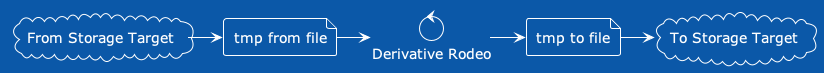
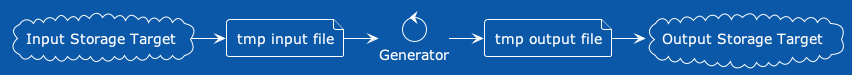
Updating readme

Changed region(s): [[0.0, 0.1644, 1.0, 0.9315], [0.4551, 0.1644, 1.0, 0.4658], [0.0, 0.3288, 0.0303, 0.3836]]

diff --git a/README.md b/README.md
@@ -25,22 +25,26 @@
 
 “This ain’t my first rodeo.” (an idiomatic American slang for “I’m prepared for what comes next.”)
 
-The `DerivativeRodeo` "moves" files *input* one storage target *output* another storage target via a generator.
+The `DerivativeRodeo` "moves" files from one storage target (e.g. *input*) to another storage target (e.g. *output*) via a generator.
 
 - [Storage Target](./lib/derivative_rodeo/storage_targets/base_target.rb) :: where we can expect to find a file.
 - [Generator](./lib/derivative_rodeo/generators/base_generator.rb) :: a process to transform a file into another file.
 
+## Process Life Cycle
+
 In the case of a *input* storage target, we expect that the underlying file pointed at by the *input* storage target exists.  After all we can't move what we don't have.
 
-In the case of a *output* storage target, we expect that the underlying file will exist after the generator has completed.  The *output* storage target could already exist or we might need to generate the file for the *output* target.
+In the case of a *output* storage target, we expect that the underlying file will exist after the generator has completed.  The *output* storage target *could* already exist or we might need to generate the file for the *output* target.
 
-During the generator's process, we need to have a working copy of both the *input* and *output* file.  This is done by creating a temporary file.  
+During the generator's process, we need to have a working copy of both the *input* and *output* file.  This is done by creating a temporary file.
 
 In the case of the *input*, the creation of that temporary file involves getting the file from the *input* storage target.  In the case of the *output*, we create a temporary file that the *output* storage target then knows how to move to the resulting place.
 
 ![Storage Lifecycle](./artifacts/derivative_rodeo-generator_storage_lifecycle.png)
 
-The process is designed an implemented to automatically clean-up the temporary files as the generator completes.
+The above Storage Lifecycle diagram is as follows: `input target` to `input tmp file` to `generator` to `output tmp file` to `output target`.
+
+*Note:* We've designed and implemented the data life cycle to automatically clean-up the temporary files as the generator completes.  In this way we can use the smallest working space possible.  A design decision that helps run `DerivativeRodeo` within distributed clusters (e.g. AWS Serverless).
 
 ## Concepts
 
@@ -176,7 +180,7 @@ Generators are responsible for ensuring that we have the file associated with th
 
 Generators must have an initializer and build command:
 
-- `.new(array_of_file_urls, output_url_type, preprocessor_url_type)`
+- `.new(array_of_file_urls, output_target_template, preprocessed_target_template)`
 - `#generated_files` (executes the generators actions) and returns array of files
 - `#generated_uris` (executes the generators actions) and returns array of output uris
 
@@ -186,7 +190,9 @@ Below is the current list of generators.
 
 - [HocrGenerator](./lib/derivative_rodeo/generators/hocr_generator.rb) :: generated tesseract files from images, also creates monocrhome files as a prestep
 - [MonochromeGenerator](./lib/derivative_rodeo/generators/monochrome_generator.rb) :: converts images to monochrome
-- [MoveGenerator](./lib/derivative_rodeo/generators/move_generator.rb) :: sends a set of uris to another location. For example from <abbr title="Simple Storage Service">S3</abbr> to <abbr title="Simple Queue Service">SQS</abbr> or from filesystem to S3.
+- [CopyGenerator](./lib/derivative_rodeo/generators/copy_generator.rb) :: sends a set of uris to another location. For example from <abbr title="Simple Storage Service">S3</abbr> to <abbr title="Simple Queue Service">SQS</abbr> or from filesystem to S3.
+- [PdfSplitGenerator](./lib/derivative_rodeo/generators/pdf_split_generator.rb) :: split a PDF into one image per page
+- [WordCoordinatesGenerator](./lib/derivative_rodeo/generators/word_coordinates_generator.rb) :: create a JSON file representing the words and coordinates (derived from the `.hocr` file).
 
 #### Registered Generators
 
